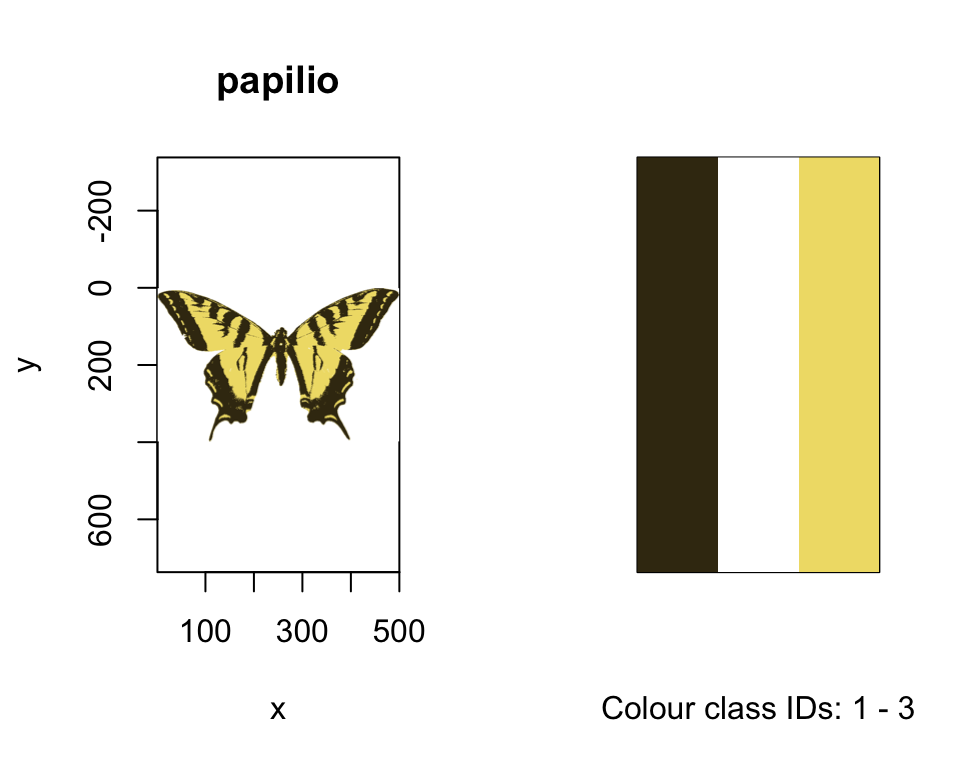
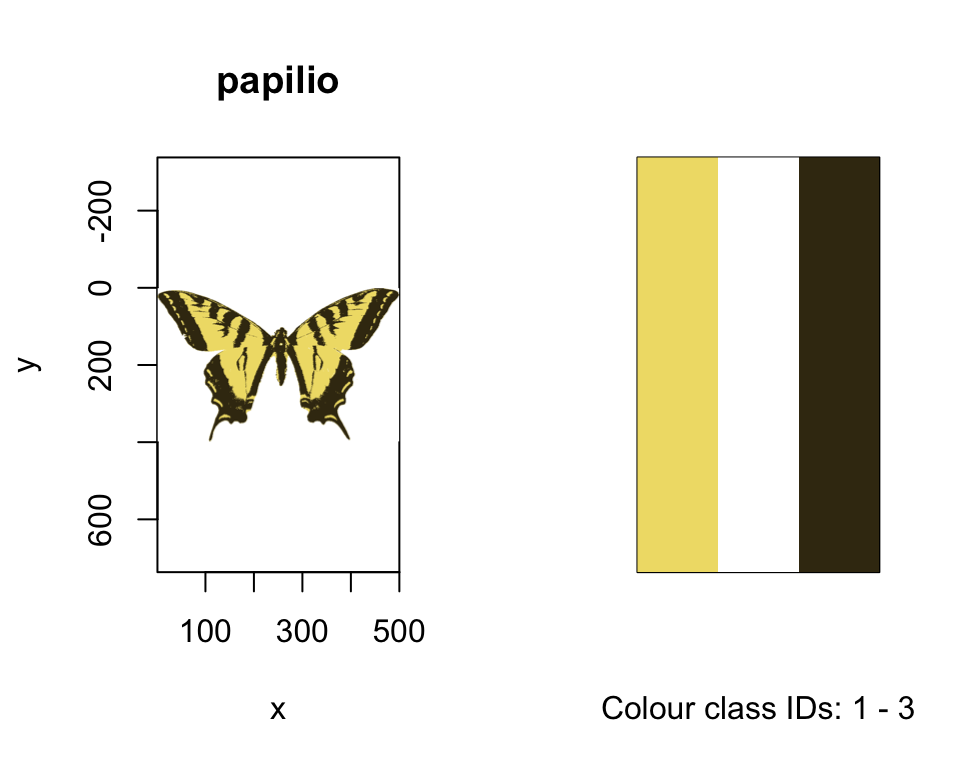
Built site for pavo: 2.4.0@eb29eb5

Changed region(s): [[0.8125, 0.1875, 0.9375, 0.75], [0.6562, 0.1875, 0.75, 0.75]]

diff --git a/articles/pavo-3-analysing.html b/articles/pavo-3-analysing.html
@@ -1111,27 +1111,27 @@ The k-means classified images of our butterflies, along with their identified co
 
 <span class="co"># Take a look</span>
 <span class="fu"><a href="https://rdrr.io/r/utils/head.html">head</a></span>(<span class="no">butterflies_adj</span>)</pre></body></html></div>
-<pre><code>##             k     N n_off        p_1       p_2       p_3        p_4      q_1_1
-## h_melpomene 4 54064  4587 0.03610294 0.5501103 0.3516176 0.06216912 0.02365715
-## papilio     3 63241  4387 0.20022013 0.5607233 0.2390566         NA 0.17305229
-##                   q_1_2     q_2_2      q_1_3      q_2_3     q_3_3       q_1_4
-## h_melpomene 0.011375407 0.5330349 0.01046907 0.01257769 0.3211194 0.003495857
-## papilio     0.007163075 0.5483942 0.04936671 0.01283977 0.2091839          NA
-##                   q_2_4      q_3_4      q_4_4     t_1_2     t_1_3     t_2_3
-## h_melpomene 0.004605653 0.04232021 0.03734463 0.1340746 0.1233922 0.1482450
-## papilio              NA         NA         NA 0.1032596 0.7116481 0.1850923
-##                 t_1_4      t_2_4    t_3_4          m        m_r        m_c
-## h_melpomene 0.0412034 0.05428385 0.498801 0.08431985 0.07816176 0.09047794
-## papilio            NA         NA       NA 0.06894056 0.07836478 0.05951633
-##                     A       Sc       St        Jc        Jt         B        Rt
-## h_melpomene 0.8638765 2.317901 3.240178 0.5794754 0.5400296 0.9053848 0.5601855
-## papilio     1.3166937 2.429267 1.813682 0.8097558 0.6045606 0.2106223 0.5513647
-##             Rab m_dS s_dS cv_dS m_dL s_dL cv_dL m_hue s_hue var_hue m_sat s_sat
-## h_melpomene   1   NA   NA    NA   NA   NA    NA    NA    NA      NA    NA    NA
-## papilio       1   NA   NA    NA   NA   NA    NA    NA    NA      NA    NA    NA
-##             cv_sat m_lum s_lum cv_lum
-## h_melpomene     NA    NA    NA     NA
-## papilio         NA    NA    NA     NA</code></pre>
+<pre><code>##             k     N n_off       p_1        p_2       p_3        p_4     q_1_1
+## h_melpomene 4 54064  5103 0.5833456 0.03496324 0.3410294 0.04066176 0.5649231
+## papilio     3 63241  4371 0.1995597 0.23949686 0.5609434         NA 0.1726728
+##                  q_1_2       q_2_2       q_1_3      q_2_3     q_3_3       q_2_4
+## h_melpomene 0.01302160 0.006473809 0.018644569 0.03464413 0.3073394 0.009747706
+## papilio     0.04901883 0.209642479 0.006941699 0.01315602 0.5485682          NA
+##                  q_3_4      q_4_4     t_1_2     t_1_3     t_2_3     t_2_4
+## h_melpomene 0.01833013 0.02687555 0.1379581 0.1975309 0.3670390 0.1032726
+## papilio             NA         NA 0.7092199 0.1004347 0.1903455        NA
+##                 t_3_4          m        m_r        m_c         A       Sc
+## h_melpomene 0.1941995 0.09380515 0.08764706 0.09996324 0.8767929 2.176426
+## papilio            NA 0.06868910 0.07805031 0.05932789 1.3155754 2.428125
+##                   St        Jc        Jt         B        Rt Rab m_dS s_dS
+## h_melpomene 4.146845 0.5441064 0.6911409 0.8837938 0.5656954   1   NA   NA
+## papilio     1.820461 0.8093752 0.6068204 0.2150538 0.5493113   1   NA   NA
+##             cv_dS m_dL s_dL cv_dL m_hue s_hue var_hue m_sat s_sat cv_sat m_lum
+## h_melpomene    NA   NA   NA    NA    NA    NA      NA    NA    NA     NA    NA
+## papilio        NA   NA   NA    NA    NA    NA      NA    NA    NA     NA    NA
+##             s_lum cv_lum
+## h_melpomene    NA     NA
+## papilio        NA     NA</code></pre>
 <p>The output is a suite of statistics describing colour pattern structure and geometry in a tidy data frame that, since we fed it a list of images, contains one row for each of our samples. As always, the function’s help file (<code><a href="../reference/adjacent.html">?adjacent</a></code>) summarises the meaning of each output variable, and the original references listed therein contain the full discussion. Note that some of the output is <code>NA</code>, which might occur when the focal statistic simply makes no sense for the image in question (such as the transition frequency between colour categories 3 and 4, for an image that contains only 3 colour categories). Others may result when we do not give <code><a href="../reference/adjacent.html">adjacent()</a></code> enough information, such as the colour-distances required to calculate the boundary-strength statistics, or the colourmetrics required for overall pattern contrast. If we do give the function this information, we can see that those final variables now contain sensible output.</p>
 <div class="sourceCode" id="cb120"><html><body><pre class="r"><span class="co"># Create a fake matrix of pairwise colour- and luminance distances between all</span>
 <span class="co"># colour patten elements, as might be attained through visual modelling of spectral data.</span>
@@ -1163,18 +1163,18 @@ The k-means classified images of our butterflies, along with their identified co
 <span class="co"># of our two images, for convenience (though this could be readily extended to</span>
 <span class="co"># include a list of images along with a list of distances and hsl values)</span>
 <span class="fu"><a href="../reference/adjacent.html">adjacent</a></span>(<span class="no">butterflies_class</span><span class="kw">[[</span><span class="fl">2</span>]], <span class="kw">xscale</span> <span class="kw">=</span> <span class="fl">200</span>, <span class="kw">xpts</span> <span class="kw">=</span> <span class="fl">200</span>, <span class="kw">bkgID</span> <span class="kw">=</span> <span class="fl">1</span>, <span class="kw">coldists</span> <span class="kw">=</span> <span class="no">distances</span>, <span class="kw">hsl</span> <span class="kw">=</span> <span class="no">hsl_vals</span>)</pre></body></html></div>
-<pre><code>##         k     N n_off       p_1       p_2       p_3     q_1_1       q_1_2
-## papilio 3 63241  4387 0.2002201 0.5607233 0.2390566 0.1730523 0.007163075
-##             q_2_2      q_1_3      q_2_3     q_3_3     t_1_2     t_1_3     t_2_3
-## papilio 0.5483942 0.04936671 0.01283977 0.2091839 0.1032596 0.7116481 0.1850923
-##                  m        m_r        m_c        A       Sc       St        Jc
-## papilio 0.06894056 0.07836478 0.05951633 1.316694 2.429267 1.813682 0.8097558
-##                Jt         B        Rt Rab     m_dS     s_dS     cv_dS     m_dL
-## papilio 0.6045606 0.2106223 0.5513647   1 5.538363 2.595436 0.4686287 2.485001
-##              s_dL     cv_dL    m_hue     s_hue   var_hue    m_sat    s_sat
-## papilio 0.8079466 0.3251293 1.663715 0.4154308 0.0826731 2.823623 2.810238
-##            cv_sat    m_lum    s_lum    cv_lum
-## papilio 0.9952598 6.479214 2.532574 0.3908767</code></pre>
+<pre><code>##         k     N n_off       p_1       p_2       p_3     q_1_1      q_1_2
+## papilio 3 63241  4371 0.1995597 0.2394969 0.5609434 0.1726728 0.04901883
+##             q_2_2       q_1_3      q_2_3     q_3_3     t_1_2     t_1_3
+## papilio 0.2096425 0.006941699 0.01315602 0.5485682 0.7092199 0.1004347
+##             t_2_3         m        m_r        m_c        A       Sc       St
+## papilio 0.1903455 0.0686891 0.07805031 0.05932789 1.315575 2.428125 1.820461
+##                Jc        Jt         B        Rt Rab     m_dS     s_dS     cv_dS
+## papilio 0.8093752 0.6068204 0.2150538 0.5493113   1 8.867467 4.039286 0.4555174
+##             m_dL     s_dL     cv_dL    m_hue     s_hue   var_hue    m_sat
+## papilio 1.640334 1.285109 0.7834435 1.663715 0.4154308 0.0826731 4.495849
+##            s_sat    cv_sat    m_lum    s_lum    cv_lum
+## papilio 2.852462 0.6344656 7.119686 2.158261 0.3031399</code></pre>
 </div>
 <div id="example-2-complex-whole-visual-environments" class="section level3">
 <h3 class="hasAnchor">

diff --git a/reference/getspec.html b/reference/getspec.html
@@ -249,13 +249,7 @@ doi: <a href='https://doi.org/10.21105/joss.01857'>10.21105/joss.01857</a>
 and import of spectral metadata.</p></div>
 
     <h2 class="hasAnchor" id="examples"><a class="anchor" href="#examples"></a>Examples</h2>
-    <pre class="examples"><div class='input'><span class='no'>rspecdata</span> <span class='kw'>&lt;-</span> <span class='fu'>getspec</span>(<span class='fu'><a href='https://rdrr.io/r/base/system.file.html'>system.file</a></span>(<span class='st'>"testdata"</span>, <span class='kw'>package</span> <span class='kw'>=</span> <span class='st'>"pavo"</span>), <span class='kw'>ext</span> <span class='kw'>=</span> <span class='st'>"ttt"</span>, <span class='kw'>lim</span> <span class='kw'>=</span> <span class='fu'><a href='https://rdrr.io/r/base/c.html'>c</a></span>(<span class='fl'>400</span>, <span class='fl'>700</span>))</div><div class='output co'>#&gt; <span class='message'>2 files found; importing spectra:</span></div><div class='input'><span class='fu'><a href='https://rdrr.io/r/utils/head.html'>head</a></span>(<span class='no'>rspecdata</span>)</div><div class='output co'>#&gt;    wl avantes_export avantes_export_long
-#&gt; 1 400         4.0899            5.639232
-#&gt; 2 401         3.9514            6.342615
-#&gt; 3 402         4.1269            6.147300
-#&gt; 4 403         4.2617            6.010692
-#&gt; 5 404         4.1683            6.333537
-#&gt; 6 405         4.0871            6.490569</div><div class='input'>
+    <pre class="examples"><div class='input'><span class='no'>rspecdata</span> <span class='kw'>&lt;-</span> <span class='fu'>getspec</span>(<span class='fu'><a href='https://rdrr.io/r/base/system.file.html'>system.file</a></span>(<span class='st'>"testdata"</span>, <span class='kw'>package</span> <span class='kw'>=</span> <span class='st'>"pavo"</span>), <span class='kw'>ext</span> <span class='kw'>=</span> <span class='st'>"ttt"</span>, <span class='kw'>lim</span> <span class='kw'>=</span> <span class='fu'><a href='https://rdrr.io/r/base/c.html'>c</a></span>(<span class='fl'>400</span>, <span class='fl'>700</span>))</div><div class='output co'>#&gt; <span class='warning'>Warning: No files found. Try a different value for argument "ext".</span></div><div class='input'><span class='fu'><a href='https://rdrr.io/r/utils/head.html'>head</a></span>(<span class='no'>rspecdata</span>)</div><div class='output co'>#&gt; NULL</div><div class='input'>
 </div></pre>
   </div>
   <div class="col-md-3 hidden-xs hidden-sm" id="pkgdown-sidebar">

diff --git a/articles/pavo-1-overview.html b/articles/pavo-1-overview.html
@@ -140,6 +140,11 @@ code.sourceCode {
 <li>
 <strong>Visualise</strong> the output, with multiple options provided for exploration and analysis.</li>
 </ol>
+<div class="figure">
+<img src="https://raw.githubusercontent.com/rmaia/pavo/master/vignettes/fig/workflow.png" alt="A non-exhaustive overview of the colour-pattern analysis workflow in pavo, as of version 2.0, displaying some key functions at each stage." width="100%"><p class="caption">
+A non-exhaustive overview of the colour-pattern analysis workflow in pavo, as of version 2.0, displaying some key functions at each stage.
+</p>
+</div>
 <p>In the included vignettes we begin by detailing the <a href="pavo-2-importing_processing.html">importing, processing and visualisation</a> of spectral and image data, before moving on to discussion of the <a href="pavo-3-analysing.html">flexible analyses</a> of such data that <code>pavo</code> allows. Our hope is to demonstrate the flexibility of <code>pavo</code>, and to provide a cohesive, reproducible workflow for colour pattern analysis within <code>R</code>. As always, the development version of <code>pavo</code> can be found on <a href="https://github.com/rmaia/pavo">github</a>, while the stable release is available via CRAN.</p>
 </div>
 <div id="classes-and-attributes" class="section level1">

diff --git a/articles/pavo-2-importing_processing.html b/articles/pavo-2-importing_processing.html
@@ -555,7 +555,7 @@ Example plots created using <code>aggplot</code>. Left: using median, standard d
 ##  - attr(*, "colnames")= logi NA
 ##  - attr(*, "tag_loc")= logi NA</code></pre>
 <div class="sourceCode" id="cb87"><html><body><pre class="r"><span class="fu"><a href="https://rdrr.io/r/utils/str.html">str</a></span>(<span class="no">butterflies</span><span class="kw">[[</span><span class="fl">2</span>]])</pre></body></html></div>
-<pre><code>##  'rimg' num [1:500, 1:398, 1:3] 1 1 1 1 1 1 1 1 1 1 ...
+<pre><code>##  'rimg' num [1:500, 1:398, 1:3] 0.988 1 1 1 1 ...
 ##  - attr(*, "state")= chr "raw"
 ##  - attr(*, "imgname")= chr "papilio"
 ##  - attr(*, "px_scale")= logi NA
